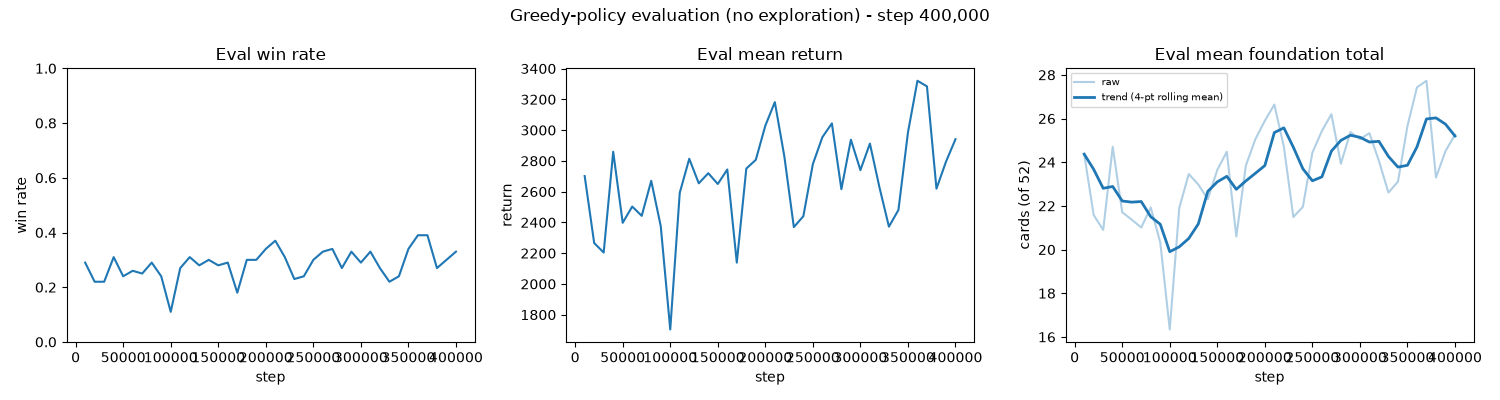
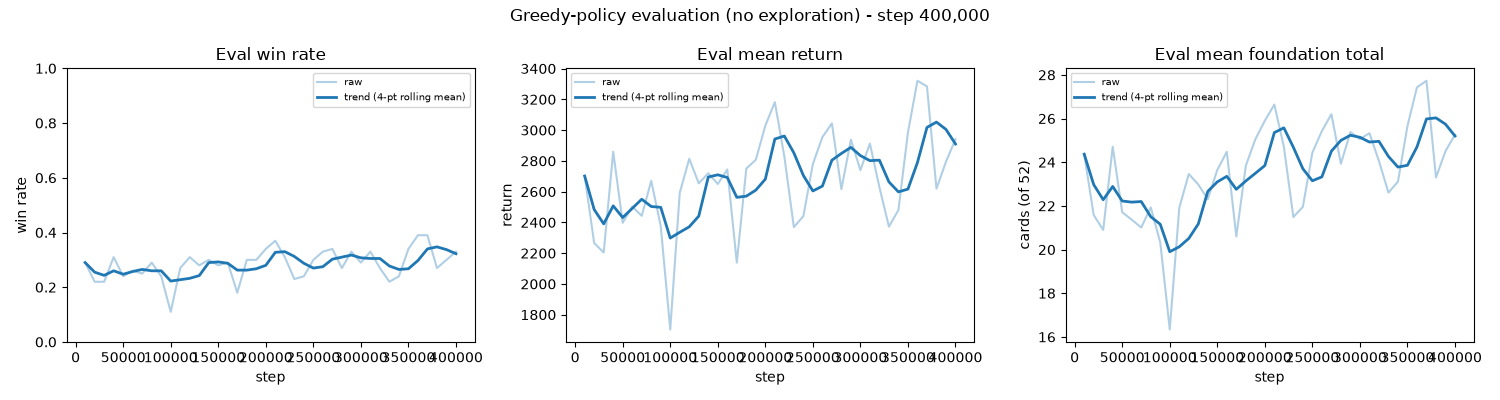
Fix rolling-mean edge padding, add trend lines to eval win-rate/return panels
_rolling_mean() padded the start of the series with copies of the first
raw value, so the first several trend points were dominated by whatever
that one point happened to be - misleading on a noisy series where it's a
lucky/unlucky outlier (run 022's eval_mean_foundation opens on a step-10000
reading of 26.52 from a barely-trained, near-epsilon=1 policy, higher than
the next ~14 eval points; the old padding scheme let that single noisy
point read as an apparent ceiling nothing later beat). Replaced with a
proper expanding-then-rolling mean: point i averages the last min(window,
i+1) real points, no padding.

Also added the same trend-line treatment already on eval_mean_foundation to
eval_win_rate and eval_mean_return, which had been raw-only.

Claude-Session: https://claude.ai/code/session_019FqMAgshcqYfBJ3GTpWyMA

diff --git a/agent/metrics.py b/agent/metrics.py
@@ -185,9 +185,9 @@ def plot_eval(csv_path: str, png_path: str) -> None:
     fig, axes = plt.subplots(1, 3, figsize=(15, 4))
     fig.suptitle(f"Greedy-policy evaluation (no exploration) - step {int(steps[-1]):,}")
 
-    _line(axes[0], steps, [r["eval_win_rate"] for r in rows], "Eval win rate", "win rate")
+    _line(axes[0], steps, [r["eval_win_rate"] for r in rows], "Eval win rate", "win rate", trend=True)
     axes[0].set_ylim(0, 1)
-    _line(axes[1], steps, [r["eval_mean_return"] for r in rows], "Eval mean return", "return")
+    _line(axes[1], steps, [r["eval_mean_return"] for r in rows], "Eval mean return", "return", trend=True)
     _line(axes[2], steps, [r["eval_mean_foundation"] for r in rows], "Eval mean foundation total", "cards (of 52)", trend=True)
 
     fig.tight_layout()
@@ -260,15 +260,24 @@ def _plot_trained_vs_random_wins(ax, train_rows: list[dict], eval_rows: list[dic
 
 
 def _rolling_mean(values: list[float], window: int) -> np.ndarray:
-    """Edge-padded rolling mean, same length as the input, so it overlays
-    directly on the raw series (including its first few points) rather than
-    starting partway through or shifting the x-alignment."""
+    """Expanding-then-rolling mean, same length as the input: point i is the
+    mean of the last min(window, i+1) points, so it overlays directly on the
+    raw series without shifting x-alignment. (Previously padded the start
+    with copies of the first raw value, which - on a noisy series where that
+    first point happens to be a lucky outlier, as eval_mean_foundation's
+    step-10000 reading in run 022 was - let that one noisy point dominate
+    several leading trend points instead of being averaged down by them.)"""
     arr = np.asarray(values, dtype=float)
-    if len(arr) < 2:
+    n = len(arr)
+    if n < 2:
         return arr
-    window = max(2, min(window, len(arr)))
-    padded = np.concatenate([np.full(window - 1, arr[0]), arr])
-    return np.convolve(padded, np.ones(window) / window, mode="valid")
+    window = max(2, min(window, n))
+    cumsum = np.concatenate([[0.0], np.cumsum(arr)])
+    result = np.empty(n)
+    for i in range(n):
+        lo = max(0, i - window + 1)
+        result[i] = (cumsum[i + 1] - cumsum[lo]) / (i + 1 - lo)
+    return result
 
 
 def _line(ax, x, y, title, ylabel, trend: bool = False) -> None:
